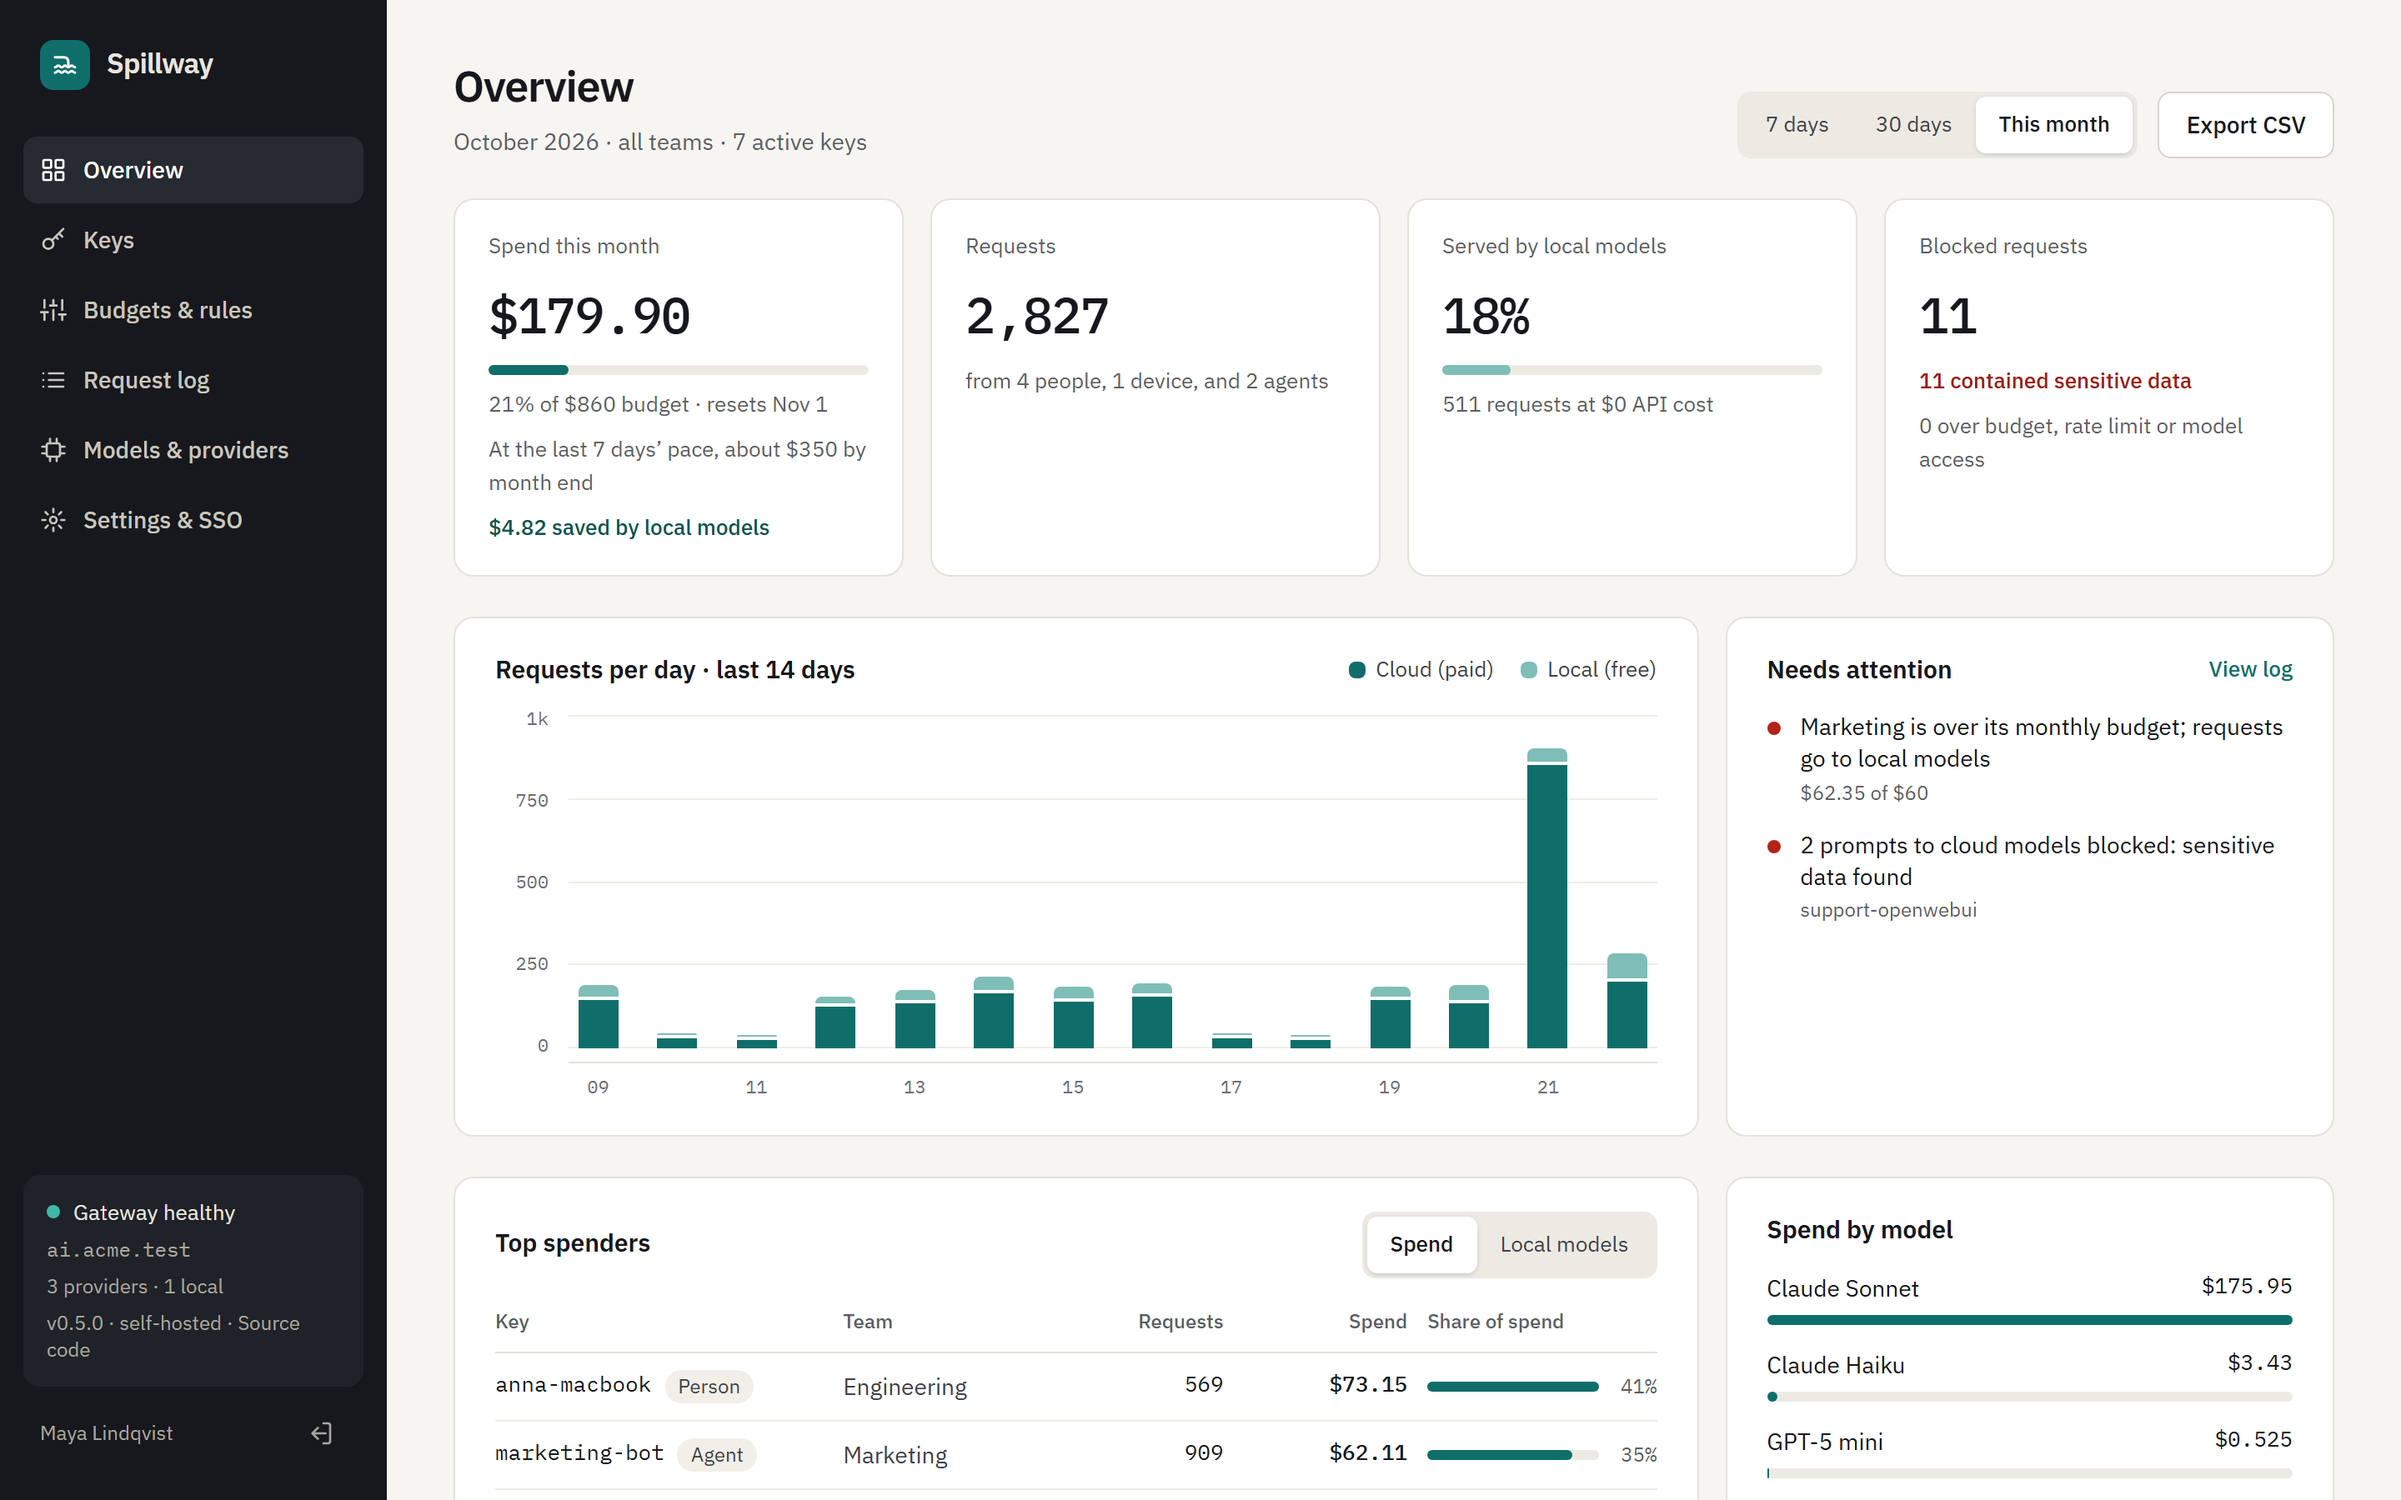
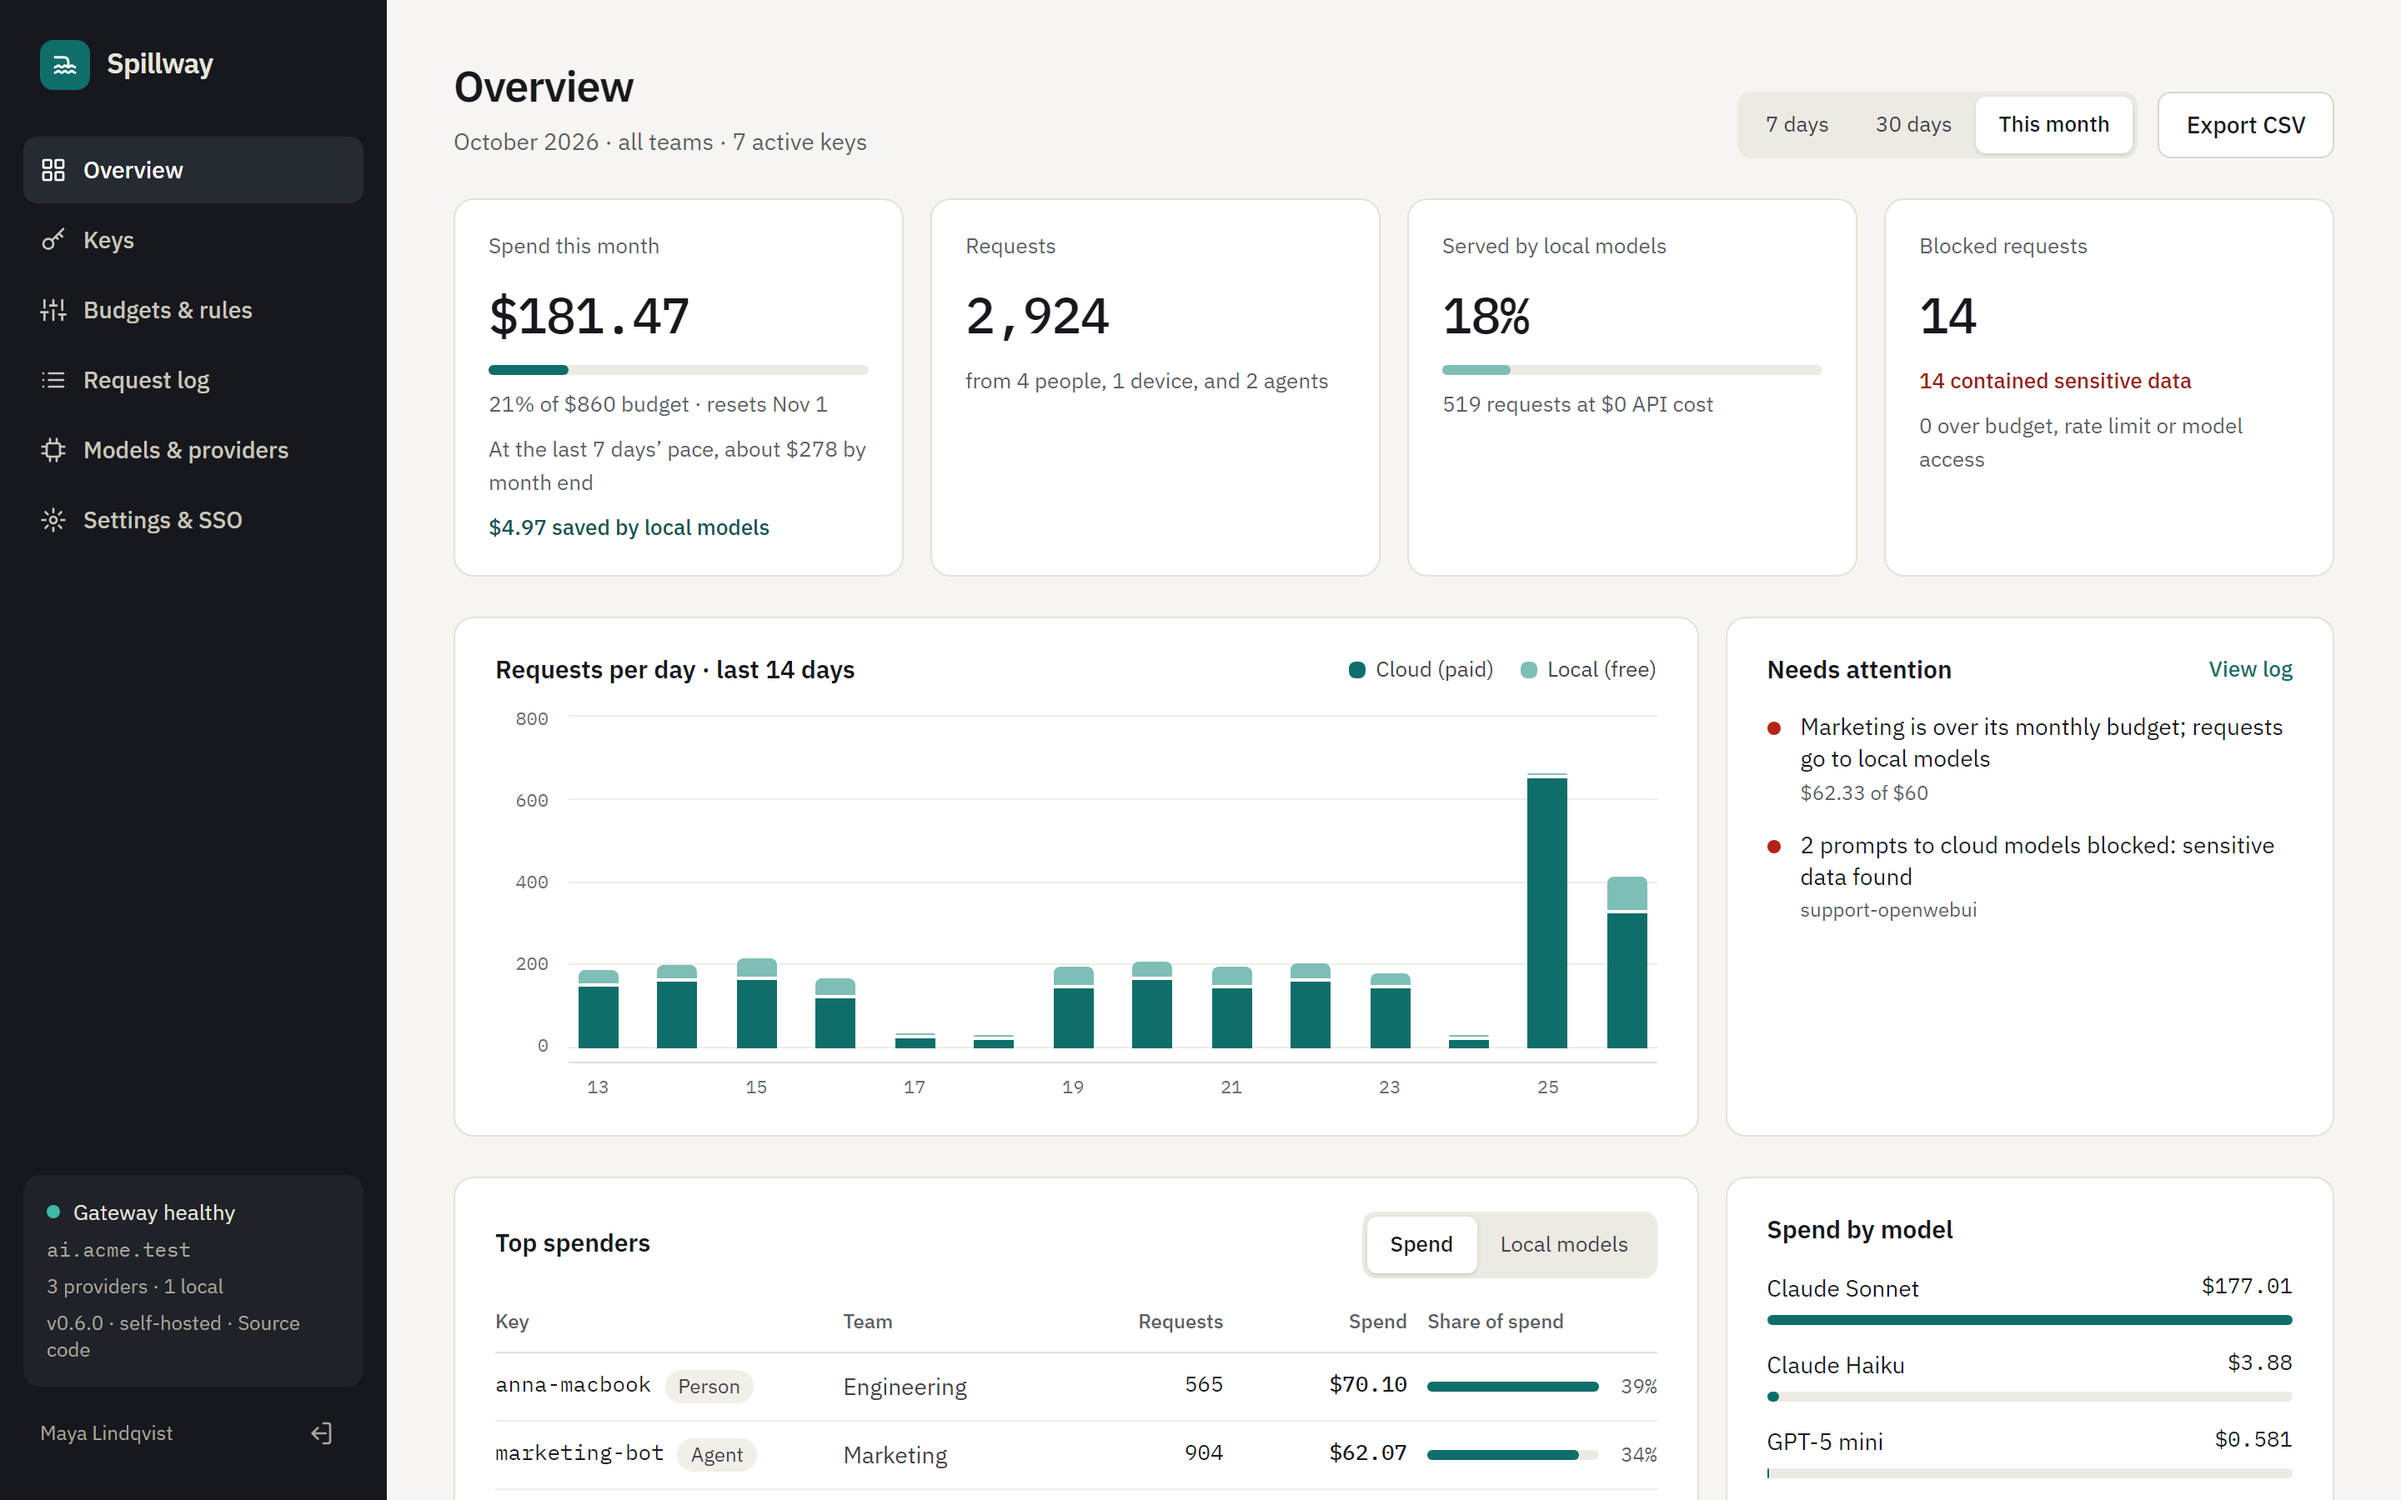
Show 0.6.0 in the README screenshots and tour
The screenshots and the tour showed 0.5.0 in the sidebar. They are retaken
from one run of the made-up company, so their numbers agree, and the
captions give the new ones. Keys now shows a review bot on a trial with an
end date, Budgets & rules in the tour has the monthly report, and the
off-hours rule shows the company's Berlin time zone instead of the time
zone of the machine the tour was recorded on.

diff --git a/README.md b/README.md
@@ -225,16 +225,16 @@ the same Codex can run on Claude or on the local model.
 
 **Overview.** Spend against the budget, the share served by local models, and what needs attention.
 
-![Overview: $179.90 of an $860 budget spent this month, 18% of requests served by local models, Marketing over its budget](docs/overview.png)
+![Overview: $181.47 of an $860 budget spent this month, 18% of requests served by local models, Marketing over its budget](docs/overview.png)
 
 **Where the money goes.** Who spends the most, which apps send the requests, and what the same
 requests would have cost on another model.
 
-![Bottom of Overview: top spenders, requests by app (Claude Code 33%, n8n 32%, other apps 35%) and the month's requests costing about $63.65 on Claude Haiku instead of $179.90](docs/overview-costs.png)
+![Bottom of Overview: top spenders, requests by app (Claude Code 34%, n8n 31%, other apps 36%) and the month's requests costing about $64.61 on Claude Haiku instead of $181.47](docs/overview-costs.png)
 
 **Keys.** One key per person, device or agent, each with its own daily limit.
 
-![Keys: seven keys for people, a device and agents, with today's spend against each daily limit](docs/keys.png)
+![Keys: seven keys for people, a device and agents, with today's spend against each daily limit, and a review bot on a trial until November 30](docs/keys.png)
 
 **Request log.** Who sent each request, where it went, what it cost and why.
 
